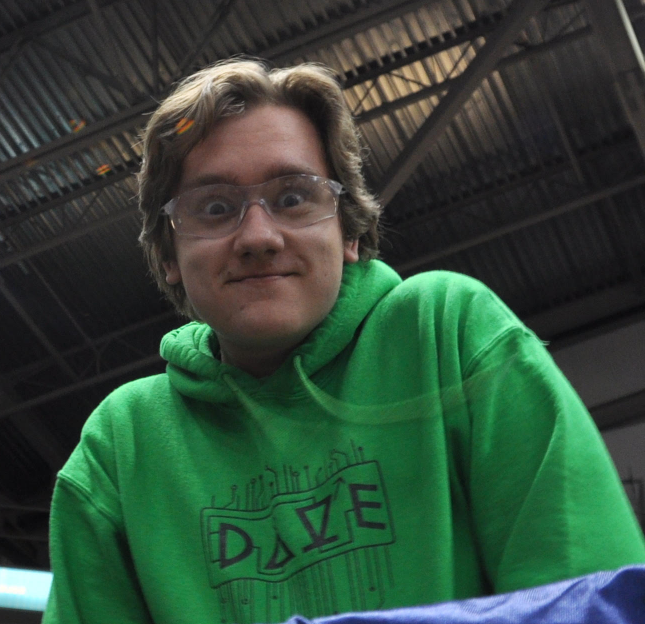
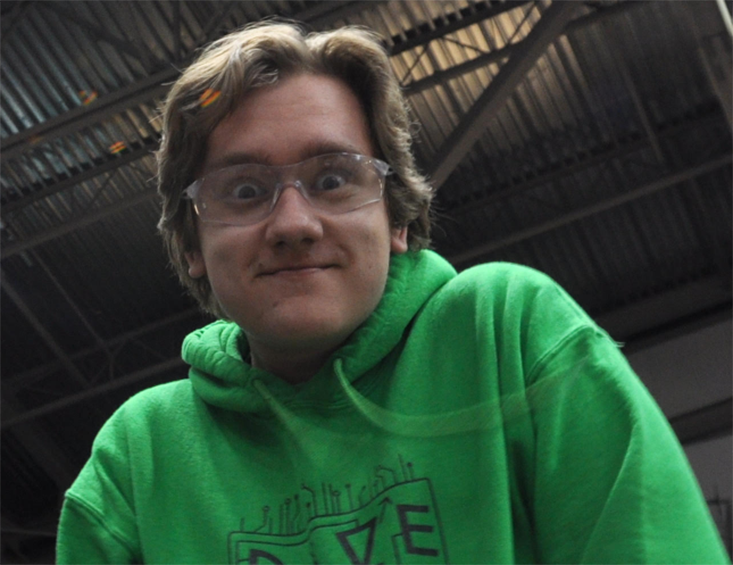
Testing new pictures and new home page (#5)
* Testing New Pictures Dimensions

* created template for home with carosell (I cant spell), and fixed typo in "about us" page

* Added the gang

* Removed black bar

* added team photo to home page

diff --git a/WakeWebsite/src/app/home/home.component.html b/WakeWebsite/src/app/home/home.component.html
@@ -1,2 +1,75 @@
 <app-navbar-custom></app-navbar-custom>
-<p>home works!</p>
+<div class="col align-content-between">
+    <div class="row justify-content-center">
+        <H1 style="font-weight: bold"> WAKE </H1>
+    </div>
+    <div class="row justify-content-center">
+        <div class="col-11 col-lg-8">
+            <div id="carouselExampleIndicators" class="carousel slide" data-ride="carousel">
+                <ol class="carousel-indicators">
+                    <li data-target="#carouselExampleIndicators" data-slide-to="0" class="active"></li>
+                    <li data-target="#carouselExampleIndicators" data-slide-to="1"></li>
+                    <li data-target="#carouselExampleIndicators" data-slide-to="2"></li>
+                    <li data-target="#carouselExampleIndicators" data-slide-to="4"></li>
+                </ol>
+                <div class="carousel-inner">
+                    <div class="carousel-item active">
+                        <img class="d-block w-100" src="assets/DaytonHeadshot.png" alt="First slide">
+                        <div class="carousel-caption d-none d-md-block">
+                            <h5>Daytime Salmonela</h5>
+                            <p>Beluga Whale Extraordinaire</p>
+                        </div>
+                    </div>
+                    <div class="carousel-item">
+                        <img class="d-block w-100" src="assets/DomHeadshot.png" alt="Second slide">
+                        <div class="carousel-caption d-none d-md-block">
+                            <h5>Dominican Fairy</h5>
+                            <p>Mr code man go burr</p>
+                        </div>
+                    </div>
+                    <div class="carousel-item">
+                        <img class="d-block w-100" src="assets/SholomHeadshot.png" alt="Third slide">
+                        <div class="carousel-caption d-none d-md-block">
+                            <h5>Shlamalamadingdong</h5>
+                            <p>Frontend man sadge</p>
+                        </div>
+                    </div>
+                    <div class="carousel-item">
+                        <img class="d-block w-100" src="assets/TimHeadshot.png" alt="Fourth slide">
+                        <div class="carousel-caption d-none d-md-block">
+                            <h5>Timothy Zhenghuini</h5>
+                            <p>Mr app man go burr</p>
+                        </div>
+                    </div>
+                </div>
+                <a class="carousel-control-prev" href="#carouselExampleIndicators" role="button" data-slide="prev">
+                    <span class="carousel-control-prev-icon" aria-hidden="true"></span>
+                    <span class="sr-only">Previous</span>
+                </a>
+                <a class="carousel-control-next" href="#carouselExampleIndicators" role="button" data-slide="next">
+                    <span class="carousel-control-next-icon" aria-hidden="true"></span>
+                    <span class="sr-only">Next</span>
+                </a>
+            </div>
+
+        </div>
+    </div>
+    <div class="row justify-content-center team-image-heading">
+        <H1 style="font-weight: bold"> Meet the Team </H1>
+    </div>
+    <div class="row justify-content-center">
+        <div class="col-11 col-lg-8 team-image">
+            <div style="cursor: pointer" routerLink="/about-us">
+                <img src="assets/TheGang.png" alt="team photo"  width="100%" height="auto">
+            </div>
+        </div>
+    </div>
+</div>
+
+
+
+
+
+
+
+

diff --git a/WakeWebsite/src/app/about-us/about-us.component.html b/WakeWebsite/src/app/about-us/about-us.component.html
@@ -55,7 +55,7 @@
                 <mat-card style="margin-top: 64px">
                     <mat-card-header>
                         <mat-card-title>Shlamaladingdong</mat-card-title>
-                        <mat-card-subtitle>Frontend man saj</mat-card-subtitle>
+                        <mat-card-subtitle>Frontend man sadge</mat-card-subtitle>
                     </mat-card-header>
                     <mat-card-content>
                         <img mat-card-image src="assets/SholomHeadshot.png" alt="Sholom Ellenbogen Headshot">

diff --git a/WakeWebsite/src/app/home/home.component.css b/WakeWebsite/src/app/home/home.component.css
@@ -1,0 +1,11 @@
+.team-image {
+    margin-bottom: 96px;
+}
+
+.heading-text {
+    font-weight: bold;
+}
+
+.team-image-heading {
+    margin-top: 96px;
+}
